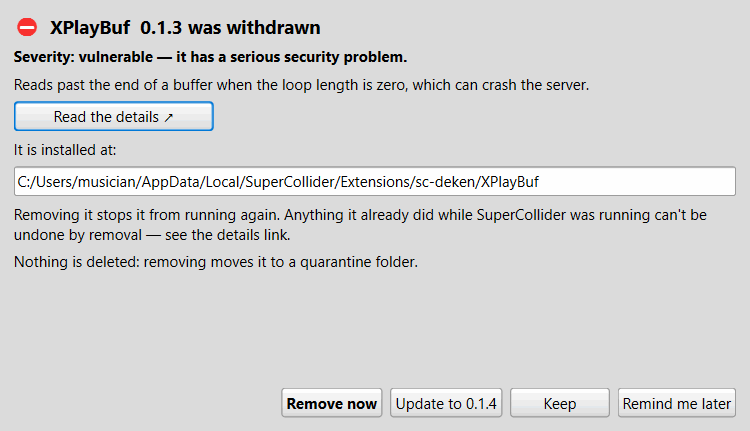
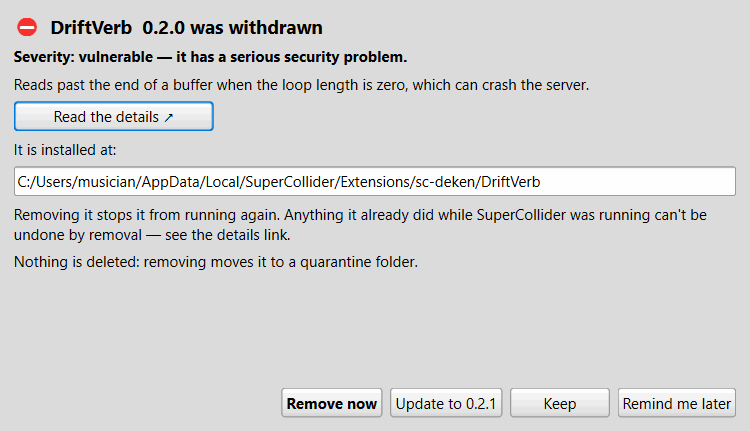
docs: fix round 1 (antivirus, quark name, real recipe data, fictional advisories, sizes)
See .superpowers/sdd/.../task-31-report.md "Fix round 1". Screenshots regenerated
and fitted to 1200 px wide; fixture reads kind/license/summary from the real recipes;
sclang harness 348 passed.

Changed region(s): [[0.0613, 0.0302, 0.4293, 0.0905], [0.644, 0.3921, 0.736, 0.4524], [0.644, 0.9049, 0.6747, 0.9652]]

diff --git a/docs/user-guide.md b/docs/user-guide.md
@@ -83,7 +83,7 @@ or newer, and an internet connection for the first start.
   "Windows x86_64 - plugin API 3 - scsynth+supernova". Prebuilt plugins are chosen by this.
 
 Nothing in the window makes SuperCollider wait. While a package is being installed
-its row says "working..." and its buttons are off; you can keep browsing.
+its row says "working…" and its buttons are off; you can keep browsing.
 
 ## 4. Find a package
 
@@ -110,19 +110,24 @@ details pane):
 |---|---|
 | `PLUGIN` | A compiled plugin for the sound server, with the small class files that let you use it in code. |
 | `QUARK` | SuperCollider code only (classes, help). Nothing is compiled. |
-| `PLUGIN + QUARK` | A compiled plugin plus a larger library of SuperCollider code. |
+| `PLUGIN + QUARK` | A compiled plugin plus a larger library of SuperCollider code (none of the pictures here shows one). |
 
 **Status** (the last column):
 
 | Status | Meaning |
 |---|---|
-| `reviewed - prebuilt` | A maintainer reviewed this exact version, and there is a ready-made download for your computer. |
-| `reviewed - build locally` | Reviewed, but no download for your computer: sc-deken builds it here. |
+| `reviewed · prebuilt` | A maintainer reviewed this exact version, and there is a ready-made download for your computer. |
+| `reviewed · build locally` | Reviewed, but no download for your computer: sc-deken builds it here. |
+| `reviewed` | Reviewed. This is all a row says until you select it; the details pane then adds how it will be installed. |
 | `community-listed` | A quark from SuperCollider's official quarks list. |
-| `unreviewed` (with a warning sign) | Found automatically. Nobody has looked at it. See [section 8](#8-unreviewed-packages). |
+| `⚠ unreviewed · build locally` (plugins) or `⚠ unreviewed` (quarks) | Found automatically. Nobody has looked at it. See [section 8](#8-unreviewed-packages). |
 | `update available` | You have it, and a newer version exists. |
-| `retracted` (red) | Withdrawn because of malware, a serious problem or a dangerous bug. See [section 11](#11-withdrawn-packages). |
-| `working...` | An install, update or removal is running. |
+| `installed` | You have it, and sc-deken has no further information about it (for example a copy you put there by hand). |
+| `⛔ retracted` (red) | Withdrawn because of malware, a serious problem or a dangerous bug. See [section 11](#11-withdrawn-packages). |
+| `working…` | An install, update or removal is running. |
+
+A package you have installed does not get its own badge in *Browse*; select it and the
+details pane offers **Remove** instead of **Install**, or look on the *Installed* page.
 
 ## 6. Install a package
 
@@ -147,13 +152,13 @@ The package is now listed under *Installed*, and its button changes to **Remove*
 
 ![The package is installed](screenshots/10-installed-now.png)
 
-**Quarks** are installed by SuperCollider itself, exactly as if you had used
-`Quarks.install`; they show up in the Quarks window too.
+**Quarks** are installed through SuperCollider's own Quarks system, pinned to the commit the reviewers approved; they
+show up in the Quarks window too.
 
 **Needs.** Some quarks need other quarks. The details pane lists them, and
 sc-deken installs them first.
 
-![Mitola needs Panola](screenshots/04-quarks.png)
+![Mitola needs Scparco](screenshots/04-quarks.png)
 
 **Versions.** The *Version* box lists the versions that are available. The newest
 is chosen. Pick an older one if you need it.
@@ -161,7 +166,7 @@ is chosen. Pick an older one if you need it.
 ## 7. When a package has to be built on your computer
 
 Some plugins have no ready-made download for your computer. The status says
-`reviewed - build locally` and the pane explains why.
+`reviewed · build locally` and the pane explains why.
 
 ![A plugin that will be built here](screenshots/03-local-build.png)
 
@@ -249,7 +254,7 @@ Sometimes a package turns out to be a problem: it contains malware, a serious se
 hole, or a bug that can crash your computer or lose your work. The maintainers can
 **withdraw** it, which means:
 
-- It is shown in red as `retracted`, and the Install button is off for the withdrawn
+- It is shown in red as `⛔ retracted`, and the Install button is off for the withdrawn
   version.
 
   ![A withdrawn package](screenshots/06-withdrawn.png)
@@ -280,7 +285,7 @@ You decide what happens. **Nothing is removed without your permission.**
 
 - **Keep** leaves the package alone and remembers your choice so you are not asked at
   every start. For malware you are asked a second time. A kept package is still marked
-  `retracted` in the lists.
+  `⛔ retracted` in the lists.
 
   ![Keeping malware needs a second yes](screenshots/advisory-keep.png)
 
@@ -353,7 +358,8 @@ carries on with the saved copy.
 
 **The package list could not be verified.** sc-deken refuses a list whose signature
 does not match, and keeps using the last good copy. If it persists, update sc-deken
-(`Quarks.update("Deken")` and recompile).
+(`Quarks.update("scdeken");` and recompile; the quark is named after its address,
+`https://github.com/shimpe/scdeken`).
 
 **"Some tools are missing" for a local build.** Install what the dialog names, press
 *Check again*. If a tool is installed but not found, restart SuperCollider so it picks up
@@ -364,7 +370,16 @@ not support your SuperCollider or compiler version. Copy the log when you ask th
 author for help, and mention your platform line from the bottom of the window.
 
 **The helper cannot be downloaded or fails its checksum.** sc-deken will not run a helper
-it could not verify. Check your internet connection and any firewall;
+it could not verify. Check your internet connection and any firewall, then try again.
+
+**Antivirus software gets in the way** (for example Norton on Windows). It can hold or
+quarantine a freshly downloaded `scdeken` helper (a new program it has never seen), or
+block git for a moment while it writes files, which shows up as `Permission denied` or
+`failed to write object` in the Build log. Simply try again; the files already fetched are
+kept. If it keeps happening, tell your antivirus to allow the folders SuperCollider keeps
+its sc-deken files in: the `sc-deken` folder inside `Platform.userAppSupportDir` and the
+`sc-deken` folder inside `Platform.userExtensionDir` (evaluate both in SuperCollider to see
+where they are). Only do this for folders you recognise.
 
 **I want my old copy back after "Replace".** The old copy is in the `backup` folder inside
 `Platform.userAppSupportDir +/+ "sc-deken"`.

diff --git a/docs/maintainer-guide.md b/docs/maintainer-guide.md
@@ -52,7 +52,7 @@ flowchart LR
 ```
 
 A merge to `main` of the recipes repository **is the approval**. That is why
-branch protection on `main` is not optional (see section 7 of the recipes README).
+branch protection on `main` is not optional (step 6, "Branch protection", in the recipes README's setup list).
 
 ## 3. Recipes
 
@@ -125,7 +125,7 @@ A recipe merge means "I read this and I accept running it on users' computers". 
   come from places you trust;
 - the license is right, and the packed archive will contain the license file;
 - the PR build is green on every platform you care about. A platform that fails gets no
-  prebuilt download and is built locally by users (they see "reviewed - build locally").
+  prebuilt download and is built locally by users (they see "reviewed · build locally").
   That does not block the merge.
 
 ## 5. Approving versions
@@ -188,7 +188,7 @@ legitimate package does real harm.
 What users see:
 
 - The withdrawn version leaves the installable list at once, and is shown in red as
-  `retracted`. Installing a `malware` version is refused; for `vulnerable` and `broken`
+  `⛔ retracted`. Installing a `malware` version is refused; for `vulnerable` and `broken`
   the user can install it after a warning.
 
   ![Withdrawn package in the window](screenshots/06-withdrawn.png)

diff --git a/README.md b/README.md
@@ -44,11 +44,11 @@ what has to be done afterwards (recompile, reboot the server), which version you
 get, and how it will be installed: a prebuilt download or a build on this
 computer.
 
-![A plugin without a prebuilt download: "reviewed - build locally"](docs/screenshots/03-local-build.png)
+![A plugin without a prebuilt download: "reviewed · build locally"](docs/screenshots/03-local-build.png)
 
 **Quarks that need other quarks bring them along.**
 
-![Mitola needs Panola; the details pane says it will be installed too](docs/screenshots/04-quarks.png)
+![Mitola needs Scparco; the details pane says it will be installed too](docs/screenshots/04-quarks.png)
 
 **Missing build tools are named, with the command to install them.**
 
@@ -63,6 +63,7 @@ commit that would be built.
 **Installed packages, updates and the build log.**
 
 ![The Installed page, with an update waiting for portedplugins](docs/screenshots/07-installed.png)
+![The build log of a local build](docs/screenshots/11-build-log.png)
 
 **Withdrawn packages are flagged.** If maintainers withdraw a package or version
 (malware, a serious vulnerability, or a dangerous bug), sc-deken tells you when you
